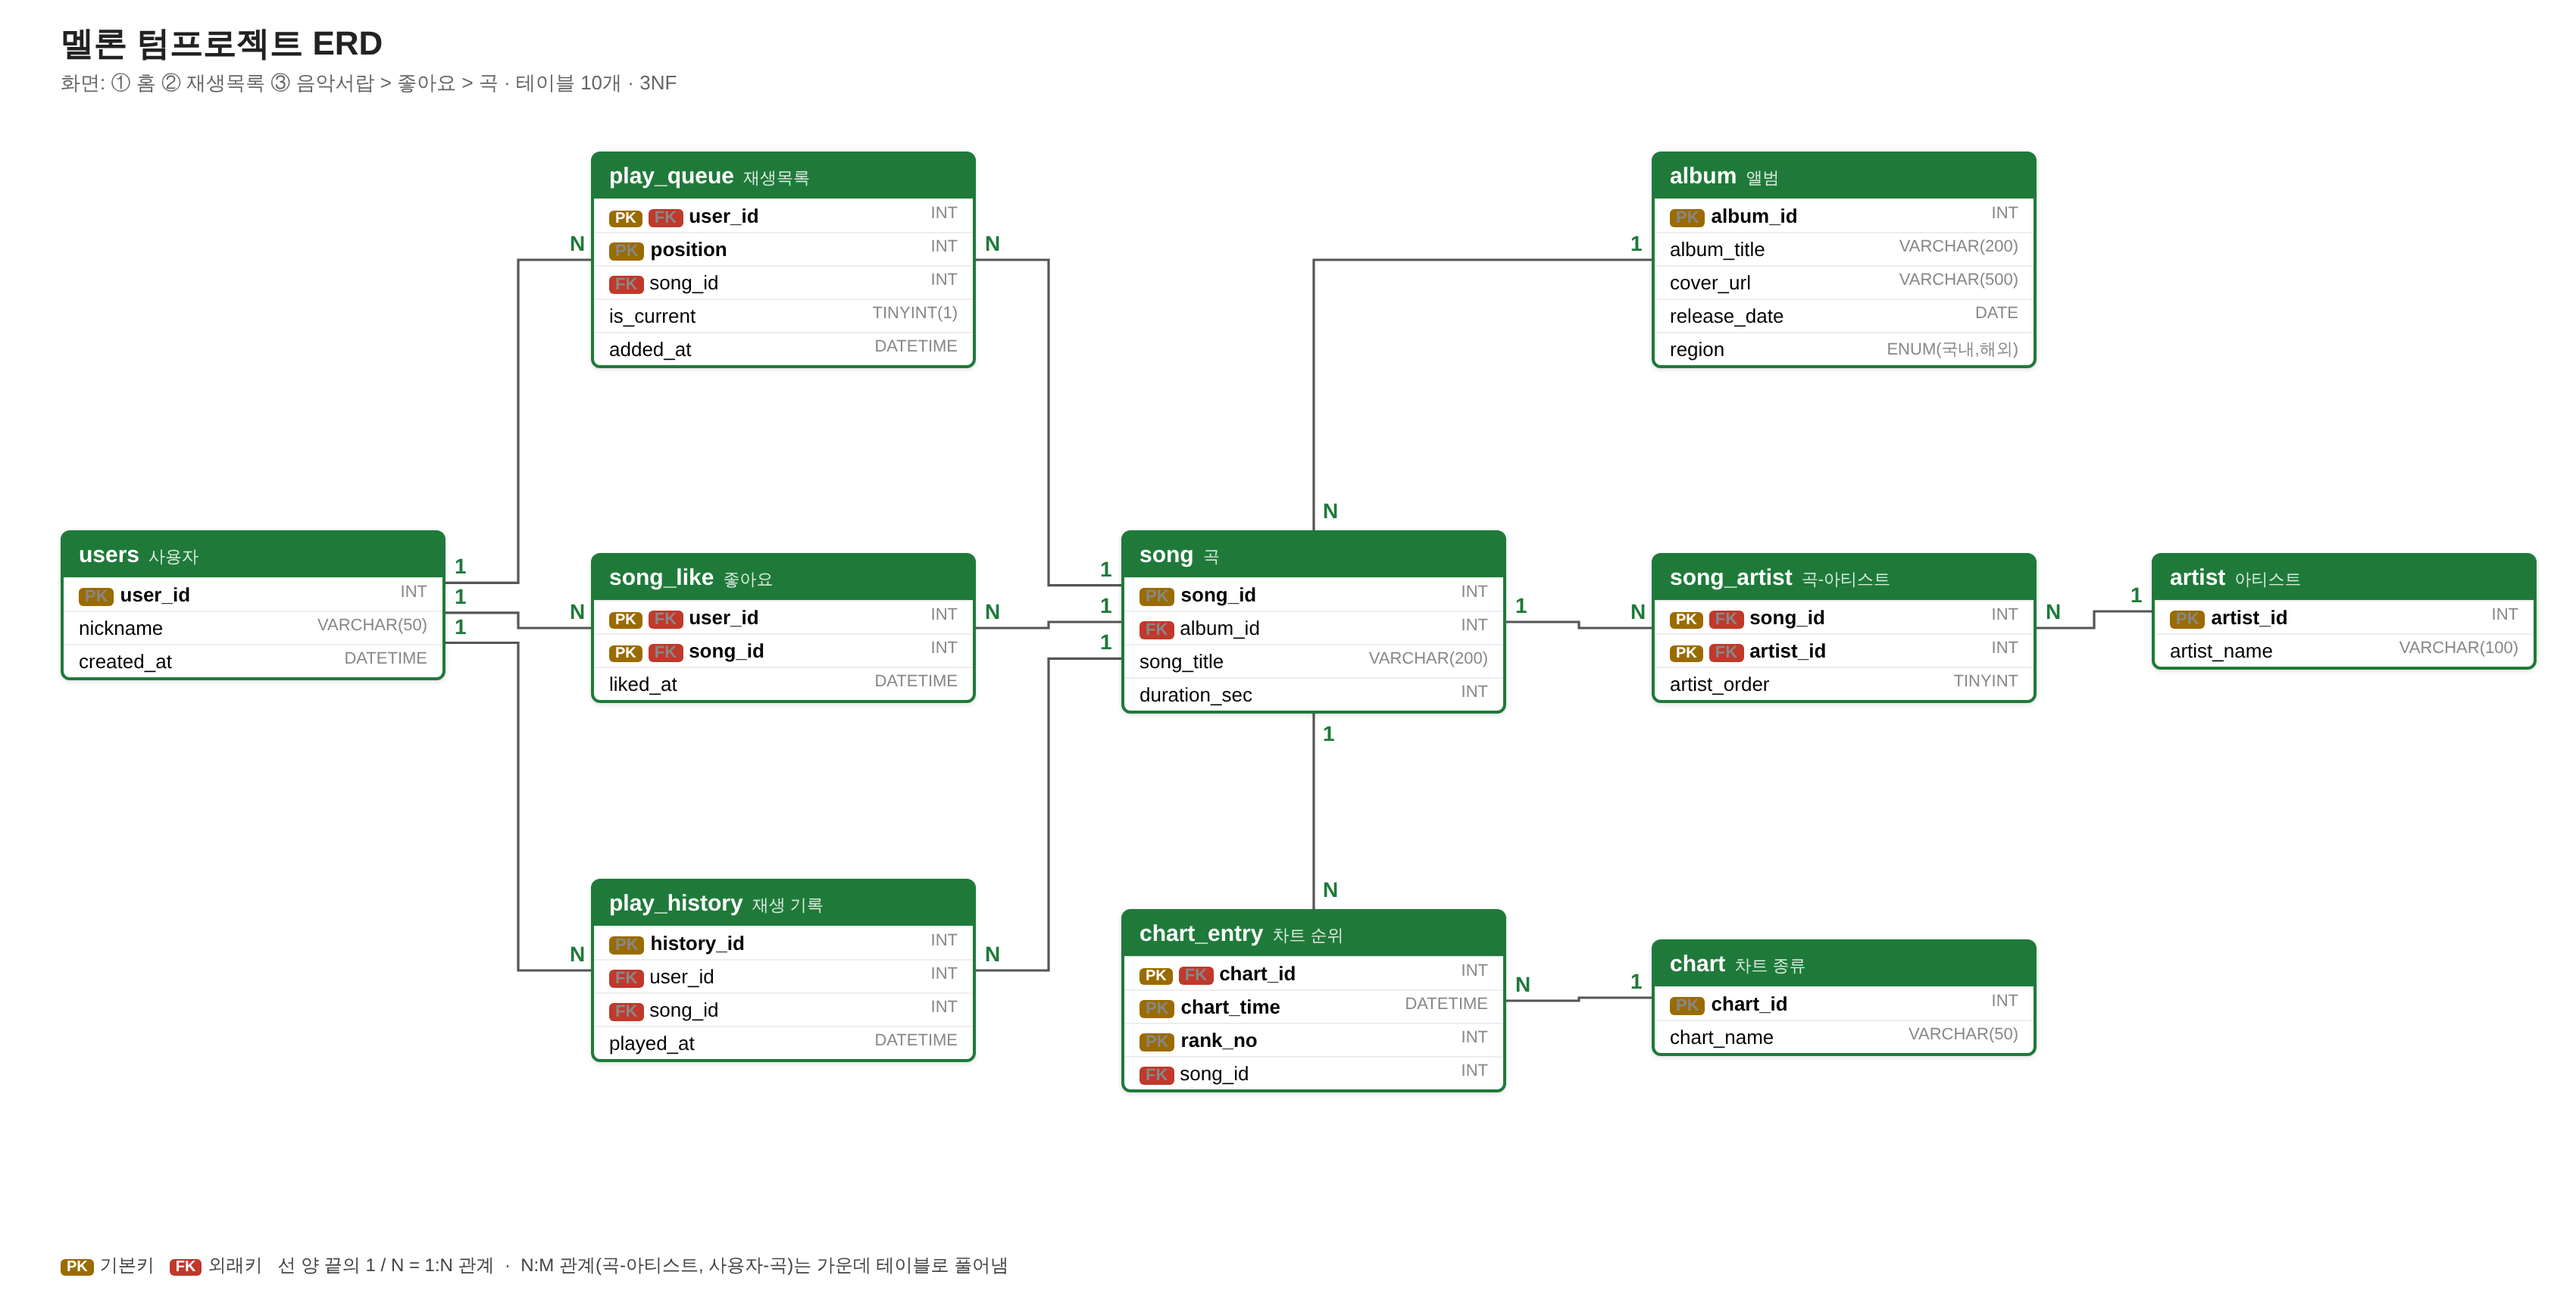
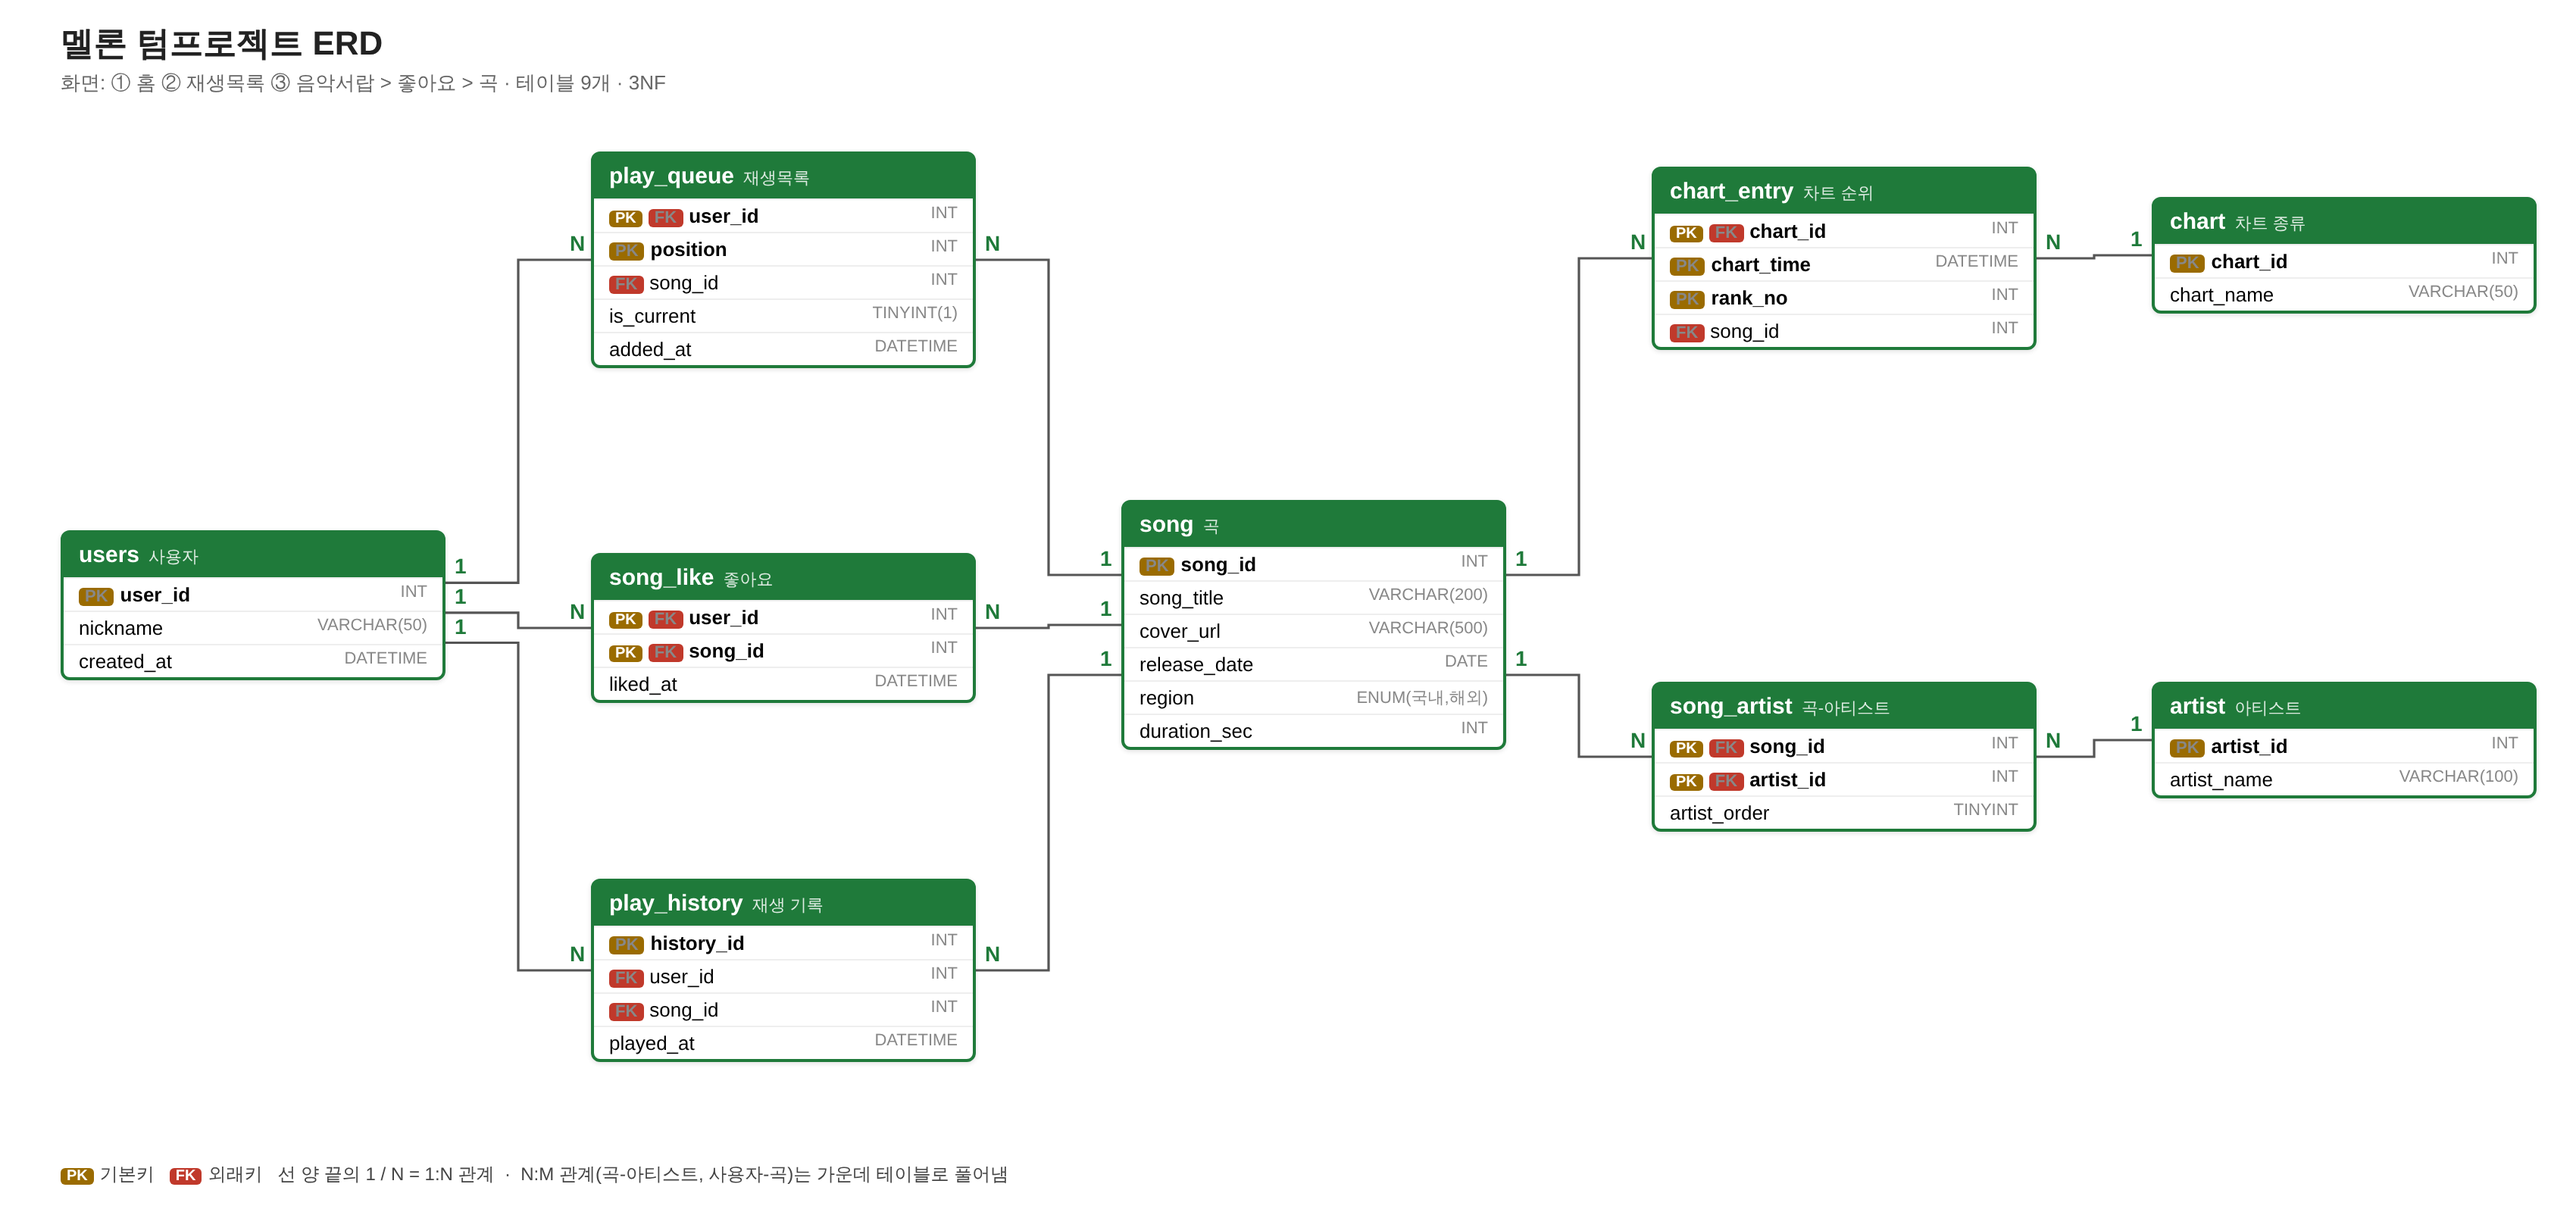
Melon term project: drop album table, cover/release/region move to song (9 tables, 3NF)
Normalization example now walks the play queue view through 1NF/2NF/3NF.

Claude-Session: https://claude.ai/code/session_01Ca3kQiPzRu1fo1dofEkVvs

diff --git a/db/term_project_melon/docs/02_DB설계.md b/db/term_project_melon/docs/02_DB설계.md
@@ -17,14 +17,13 @@
 |---|---|---|---|---|---|
 | 1 | `users` | user_id | | nickname, created_at | 전체 |
 | 2 | `artist` | artist_id | | artist_name ("RESCENE (리센느)" 그대로) | 전체 |
-| 3 | `album` | album_id | | album_title, cover_url, release_date, region(국내/해외) | 홈 (최신음악) |
-| 4 | `song` | song_id | album_id → album | song_title, duration_sec | 전체 |
-| 5 | `song_artist` | (song_id, artist_id) | song, artist | artist_order (표시 순서) | 전체 |
-| 6 | `chart` | chart_id | | chart_name (TOP100, HOT100, 비오고 흐린 날) | 홈 (멜론차트) |
-| 7 | `chart_entry` | (chart_id, chart_time, rank_no) | chart, song | UNIQUE(chart_id, chart_time, song_id) | 홈 (멜론차트) |
-| 8 | `play_queue` | (user_id, position) | users, song | is_current, added_at | 재생목록, 미니플레이어 |
-| 9 | `song_like` | (user_id, song_id) | users, song | liked_at | 좋아요 |
-| 10 | `play_history` | history_id | users, song | played_at | 좋아요 (많이 들은 / 잊고 지낸) |
+| 3 | `song` | song_id | | song_title, cover_url, release_date, region(국내/해외), duration_sec | 전체 |
+| 4 | `song_artist` | (song_id, artist_id) | song, artist | artist_order (표시 순서) | 전체 |
+| 5 | `chart` | chart_id | | chart_name (TOP100, HOT100, 비오고 흐린 날) | 홈 (멜론차트) |
+| 6 | `chart_entry` | (chart_id, chart_time, rank_no) | chart, song | UNIQUE(chart_id, chart_time, song_id) | 홈 (멜론차트) |
+| 7 | `play_queue` | (user_id, position) | users, song | is_current, added_at | 재생목록, 미니플레이어 |
+| 8 | `song_like` | (user_id, song_id) | users, song | liked_at | 좋아요 |
+| 9 | `play_history` | history_id | users, song | played_at | 좋아요 (많이 들은 / 잊고 지낸) |
 
 ### 설계하면서 정한 것 (발표 Q&A 대비)
 | 질문 | 답 |
@@ -35,32 +34,44 @@
 | 좋아요 PK는 왜 (user_id, song_id)? | 같은 곡에 좋아요를 두 번 누를 수 없어서. 중복이 DB 단계에서 막혀요 |
 | 재생 기록은 왜 따로 history_id? | 같은 곡을 여러 번 들으니 (user_id, song_id)가 중복돼요. 그래서 행마다 고유 번호를 줘요 |
 | 차트에 왜 시각(chart_time)이 PK에 있나? | 차트가 매시 갱신되고, 순위 변동을 계산하려면 이전 시각 기록이 필요해서 |
-| 국내/해외는 왜 album에? | 최신음악은 앨범(발매) 단위로 나와서. 아티스트 단위로 볼지는 결정사항 #8 |
+| 앨범 테이블은 왜 없나? | 고른 화면 3개는 모두 **곡 단위**로 보여줘요(앨범 화면이 없음). 커버, 발매일, 국내/해외를 `song`에 두면 모두 song_id에만 종속돼서 3NF를 만족해요 |
+| 그럼 한계는? | 같은 앨범의 곡이 여러 개면 커버와 발매일이 곡마다 반복 저장돼요. 앨범 화면을 추가한다면 `album` 테이블을 분리하는 게 개선 방향이에요 |
 
 ## 정규화 근거 (발표, 보고서용)
 
-수업 자료의 1NF → 2NF → 3NF 흐름처럼, "화면에 보이는 걸 한 테이블에 다 넣었다면?"에서 출발해요.
+수업 자료(Week9_1)의 1NF → 2NF → 3NF 흐름 그대로, **재생목록 화면을 한 테이블에 다 넣은 것**에서 출발해 나눠요.
 
-### 출발점: 재생목록 화면을 그대로 표로 만들면 (비정규형)
-| user_id | position | song_title | artists | album_title | cover_url | liked_at |
+### 출발점: 재생목록 화면을 그대로 표로 만들면
+PK = (user_id, position)
+
+| <u>user_id</u> | <u>position</u> | nickname | song_id | song_title | cover_url | artists |
 |---|---|---|---|---|---|---|
-| 1 | 1 | With | RESCENE (리센느) | … | …/9.jpg | 2026-11-14 |
-| 1 | 2 | NEON | **A20, A20 LITE** | NEON | …/11.jpg | |
+| 1 | 1 | 멜론유저 | 1 | With | …/1.jpg | RESCENE (리센느) |
+| 1 | 2 | 멜론유저 | 3 | NEON | …/3.jpg | **A20, A20 LITE** |
 
 ### 1NF: 반복 그룹 제거
-`A20, A20 LITE`처럼 한 칸에 값이 여러 개 → **반복 그룹**
-→ `song_artist(song_id, artist_id)`로 한 행에 아티스트 하나씩
+- `A20, A20 LITE`처럼 한 칸에 값이 여러 개 → **반복 그룹**
+- → 아티스트를 `artist(artist_id, artist_name)`로 빼고, 곡과의 연결은 `song_artist(song_id, artist_id)`로 한 행에 하나씩 저장
 
 ### 2NF: 부분 종속 제거
-`song_like(`**user_id, song_id**`, liked_at, song_title)`이라면
-- (user_id, song_id) → liked_at ✅
-- song_id → song_title ❌ **부분 종속** (PK 일부에만 종속)
-→ song_title은 `song`에만 두고 JOIN으로 가져와요.
+- (user_id, position) → song_id ✅
+- **user_id → nickname** ❌ **부분 종속** (PK의 일부인 user_id에만 종속)
+- → nickname은 `users(user_id, nickname)`로 분리
 
 ### 3NF: 이행 종속 제거
-`song(`**song_id**`, album_id, cover_url, release_date)`이라면
-- song_id → album_id → cover_url, release_date ❌ **이행 종속**
-→ cover_url, release_date, region은 `album`으로 분리
+- **(user_id, position) → song_id → song_title, cover_url** ❌ **이행 종속** (키가 아닌 song_id를 거쳐서 결정됨)
+- → 곡 정보는 `song(song_id, song_title, cover_url, …)`로 분리
+
+### 결과
+| 테이블 | 남는 컬럼 |
+|---|---|
+| `play_queue` | <u>user_id</u>, <u>position</u>, song_id, is_current |
+| `users` | <u>user_id</u>, nickname |
+| `song` | <u>song_id</u>, song_title, cover_url, release_date, region, duration_sec |
+| `song_artist` | <u>song_id</u>, <u>artist_id</u>, artist_order |
+| `artist` | <u>artist_id</u>, artist_name |
+
+나머지 테이블(`song_like`, `play_history`, `chart`, `chart_entry`)도 같은 방식으로 곡과 사용자 정보는 ID로만 참조해요. 그래서 모두 3NF예요.
 
 ### 일부러 저장하지 않는 값 (계산으로 구함)
 | 화면 값 | 구하는 방법 (`03_view_queries.sql`) |

diff --git a/db/term_project_melon/docs/03_결정사항.md b/db/term_project_melon/docs/03_결정사항.md
@@ -10,7 +10,6 @@
 | 5 | 역할 A~D 배정 | [`00_진행계획.md`](00_진행계획.md) 1절 | 기초를 만든 사람이 A(DB) | |
 | 6 | ERD 도구 | MySQL Workbench / draw.io / ERDCloud | **Workbench**: SQL에서 자동으로 그려져서 스키마와 어긋나지 않음 | |
 | 7 | "잊고 지낸" 기준 | 30일 / 60일 / 90일 이상 안 들음 | 30일 (지금 쿼리 기준). 바꾸면 `03_view_queries.sql` 한 줄만 수정 | |
-| 8 | 국내/해외 구분 위치 | album에 / artist에 | album (현재 설계). 질문 나오면 설명 가능 | |
 | 9 | 발표자 | 1명이 전부 / 파트별 나눠서 | 파트별 (Q&A 대응이 쉬움) | |
 | 10 | 쓰기 API 범위 | 좋아요 추가/취소 + 재생목록 추가 / 더 많이 | 필수 3개 + 선택 2개 ([`04_API명세.md`](04_API명세.md)) | |
 | 12 | 단계별 날짜 | [`00_진행계획.md`](00_진행계획.md) 0절 표 | 제출일(11/29) 전에 "원고 넘기기", "최종 점검" 날짜를 따로 잡기 | |
@@ -25,6 +24,7 @@
 | 11/15 | 3 | 홈 화면 = **최신음악(전체/국내/해외) + 멜론차트 + 미니플레이어** |
 | 11/15 | 4 | API = **Python Flask** (+ pymysql), 테스트 = **Postman** |
 | 11/15 | | DB = **MySQL 8.x** (수업 지정) |
+| 11/15 | 8 | **앨범 테이블 제외**. 커버, 발매일, 국내/해외는 `song`에 저장(곡 단위 화면만 있어서 3NF 만족). 테이블 9개 |
 | 11/15 | | 재생 진행바(재생 위치)는 범위에서 **제외** (DB보다 앱 상태에 가까움) |
 | 11/15 | | 로그인은 구현하지 않고 URL의 `user_id`로 사용자 구분 |
 | 11/15 | 11 | 팀 공유는 **카톡 + ZIP**. 관리자(기초 작업자) 1명이 파일을 합쳐 새 버전 ZIP을 올림. 규칙은 [`00_진행계획.md`](00_진행계획.md) 6절 |

diff --git a/db/term_project_melon/docs/01_화면분석.md b/db/term_project_melon/docs/01_화면분석.md
@@ -11,7 +11,7 @@
 
 | 영역 | 화면에 보이는 것 | 필요한 데이터 |
 |---|---|---|
-| 최신음악 | 앨범 커버, 곡명, 아티스트명 | 곡명, 아티스트명, 앨범 커버 URL |
+| 최신음악 | 커버, 곡명, 아티스트명 | 곡명, 아티스트명, 커버 URL |
 | 최신음악 | 최신순으로 나열 | **발매일** |
 | 최신음악 | 전체 / 국내 / 해외 탭 | **국내/해외 구분** |
 | 멜론차트 | "오늘 23:00 기준" | **차트 기준 시각** (차트가 시간마다 갱신됨) |
@@ -63,10 +63,9 @@
 | 데이터 | 테이블 후보 |
 |---|---|
 | 사용자 | users |
-| 곡명, 재생시간 | song |
+| 곡명, 커버, 발매일, 국내/해외, 재생시간 | song |
 | 아티스트명 | artist |
 | 한 곡에 여러 아티스트 | song_artist |
-| 앨범 커버, 발매일, 국내/해외 | album |
 | 차트 종류 | chart |
 | 차트 기준 시각, 순위 | chart_entry |
 | 재생목록 순서, 현재 재생 곡 | play_queue |

diff --git a/db/term_project_melon/docs/05_실행가이드.md b/db/term_project_melon/docs/05_실행가이드.md
@@ -24,7 +24,7 @@
 
 1. Workbench에서 로컬 서버(root)에 접속
 2. `File > Open SQL Script` → `sql/01_schema.sql` 열기 → ⚡(전체 실행)
-   - `melon` DB와 테이블 10개가 생겨요. **다시 실행하면 DB가 초기화돼요.**
+   - `melon` DB와 테이블 9개가 생겨요. **다시 실행하면 DB가 초기화돼요.**
 3. `sql/02_sample_data.sql` 열기 → ⚡
 4. `sql/03_view_queries.sql` 열기 → ⚡ → 아래쪽 Result 탭에서 결과 확인
 

diff --git a/db/term_project_melon/README.md b/db/term_project_melon/README.md
@@ -46,9 +46,9 @@
   <img src="images/view3_like_songs.jpg" width="220">
 </p>
 
-## 기초 테이블 (10개)
+## 기초 테이블 (9개)
 
-`users`, `artist`, `album`, `song`, `song_artist`, `chart`, `chart_entry`, `play_queue`, `song_like`, `play_history`
+`users`, `artist`, `song`, `song_artist`, `chart`, `chart_entry`, `play_queue`, `song_like`, `play_history`
 → 설명은 [`docs/02_DB설계.md`](docs/02_DB설계.md)
 
 ![ERD](images/erd.png)
